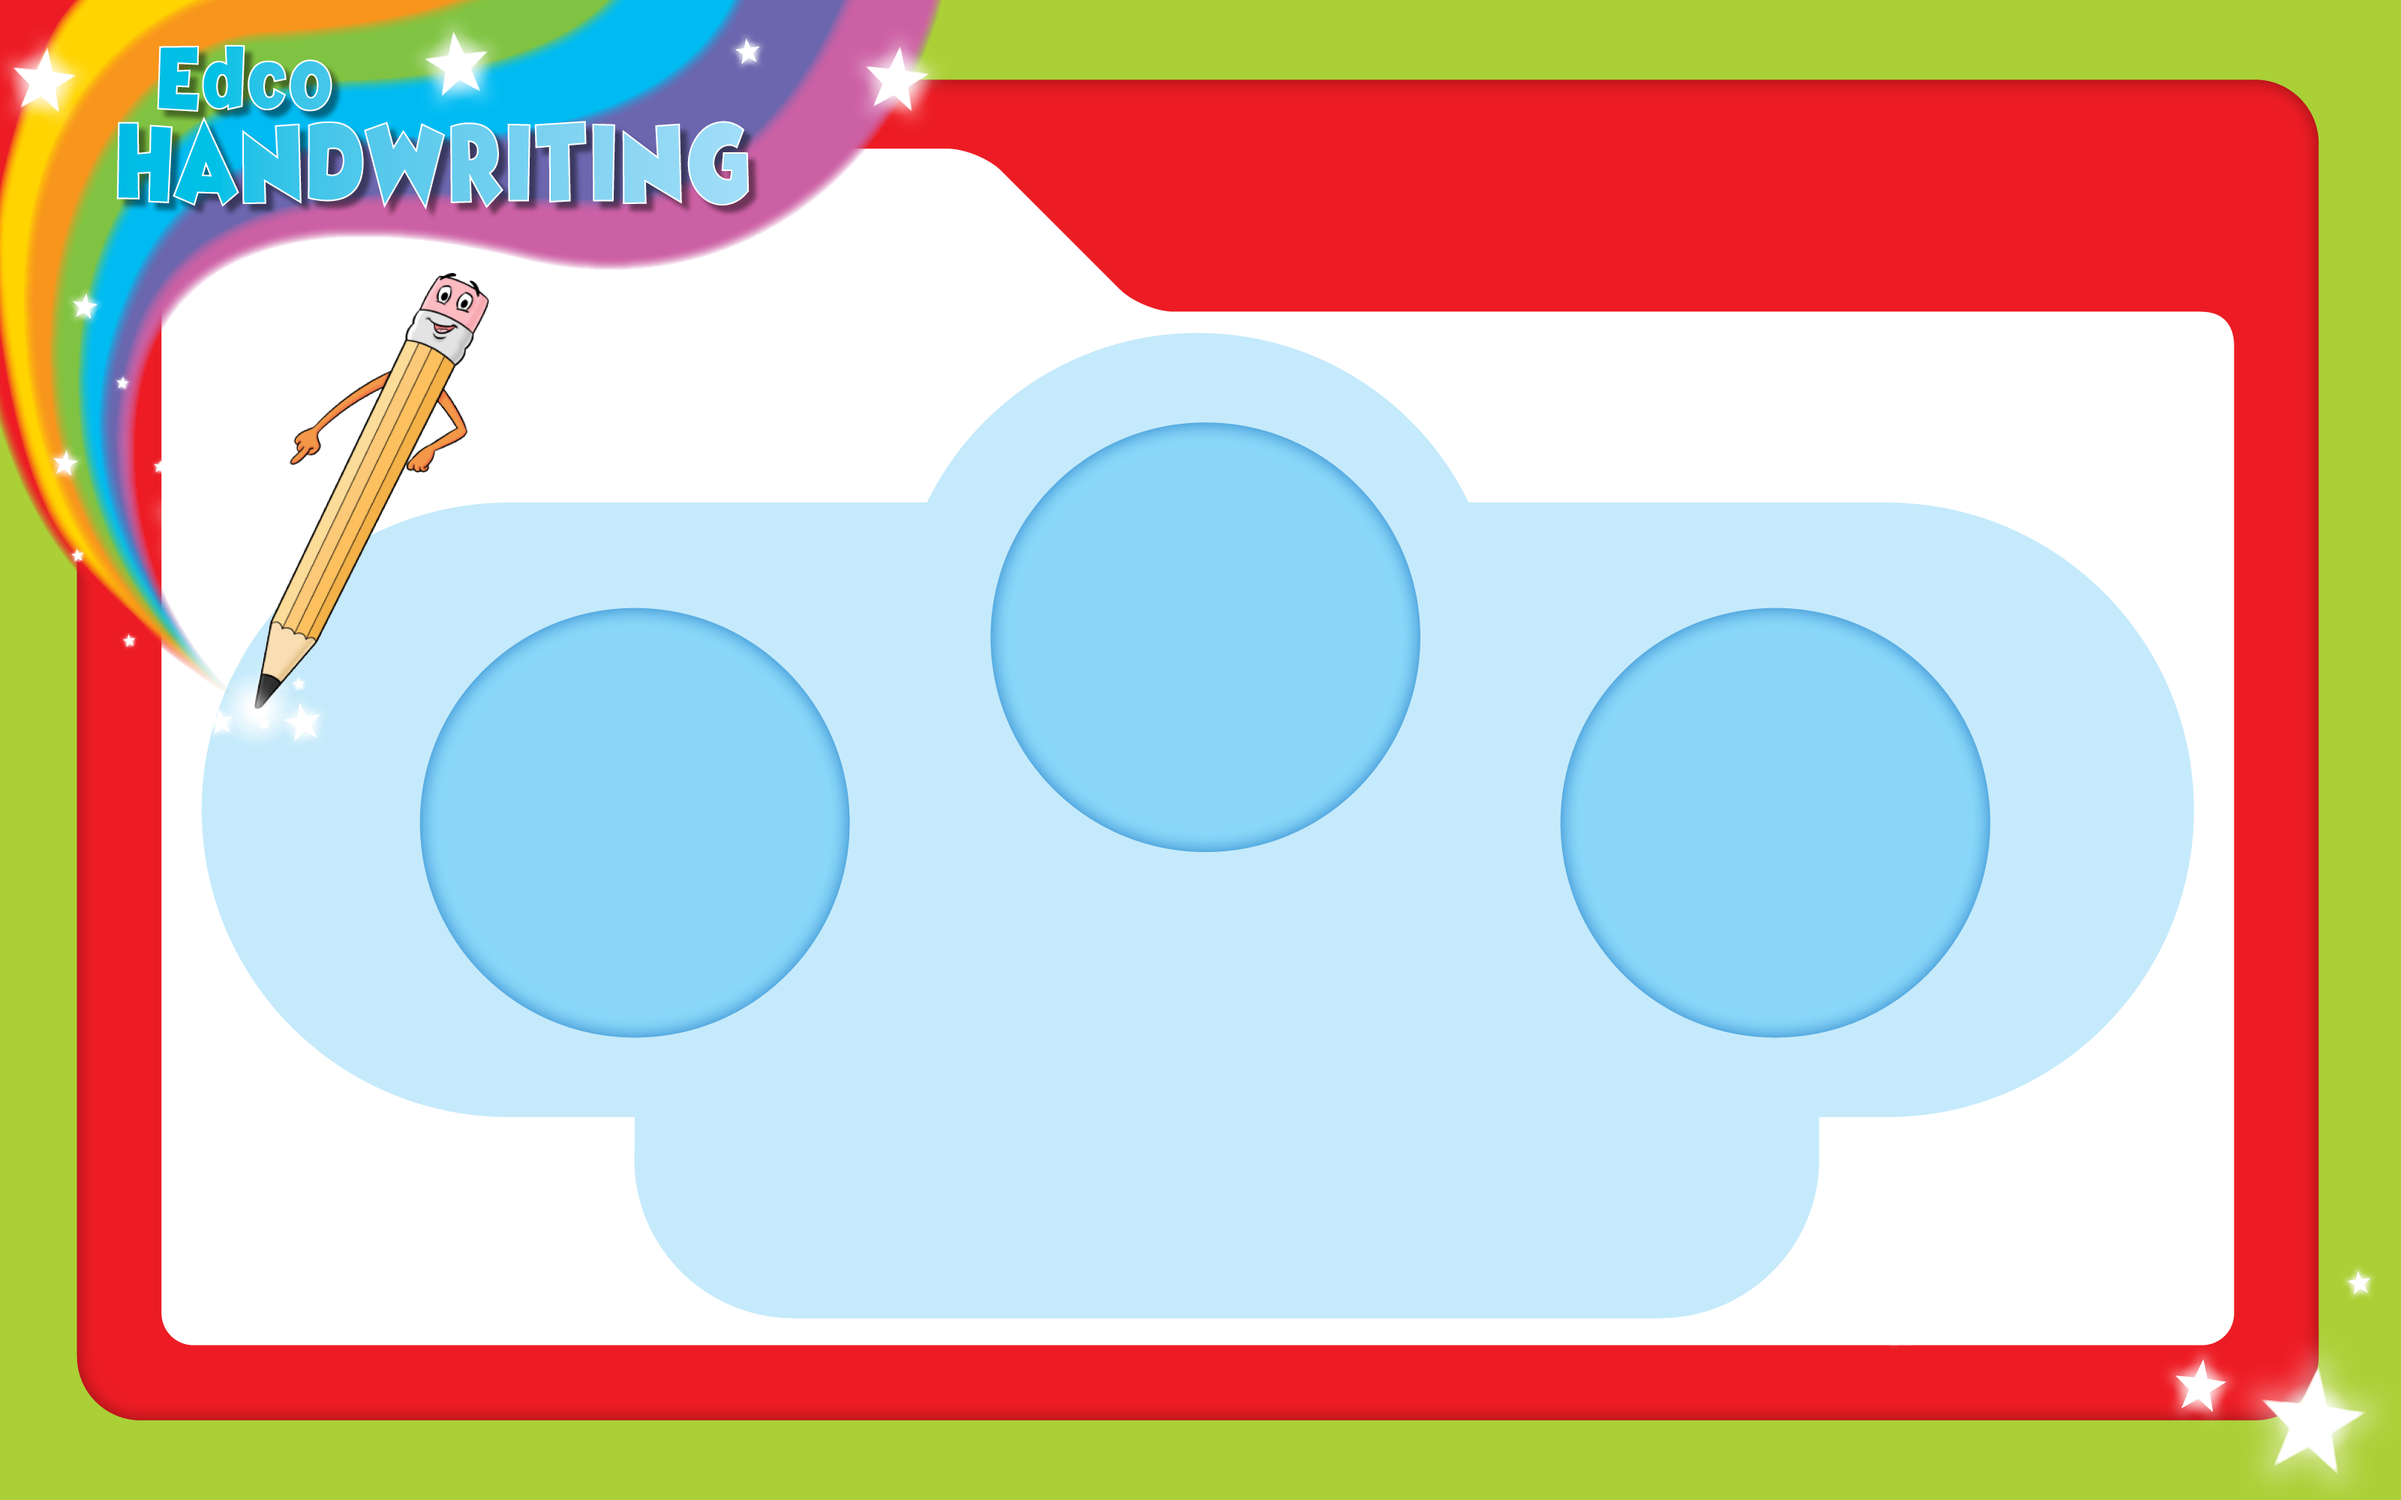
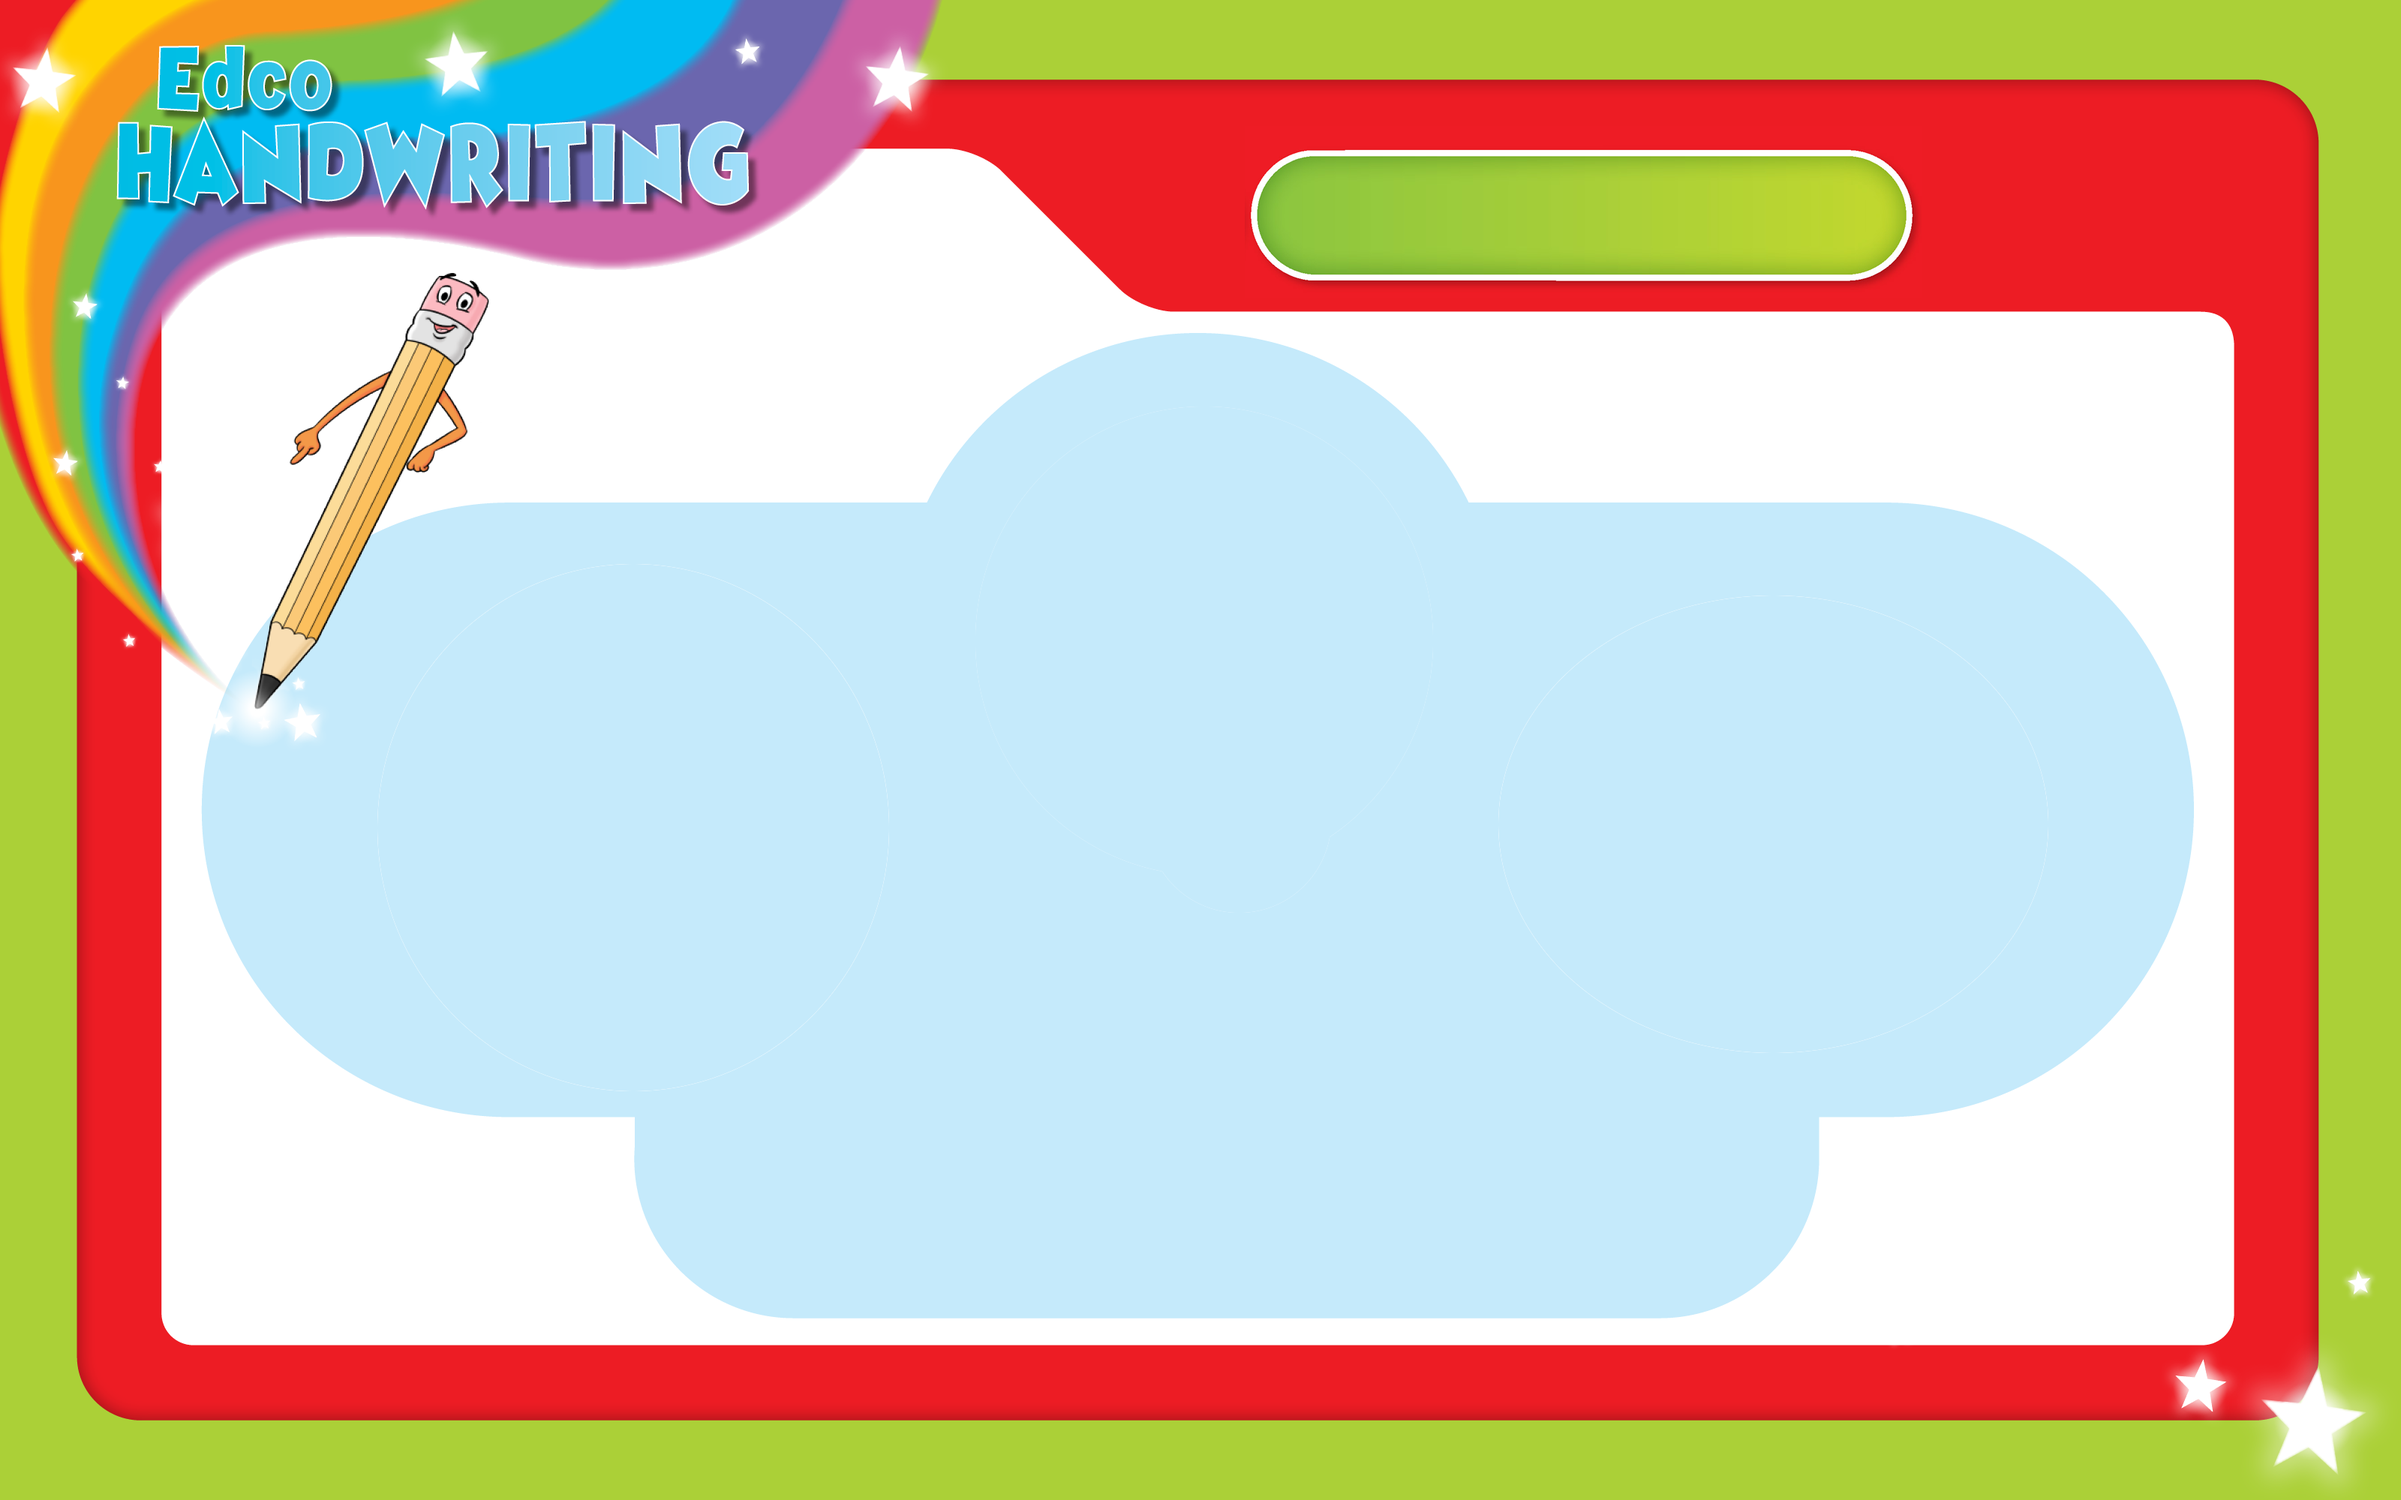
bg update 3

diff --git a/sample/src/components/PreWritingPractice.jsx b/sample/src/components/PreWritingPractice.jsx
@@ -12,6 +12,8 @@ import pat5 from "../images/pat-5-bg.png";
 import { MyConsumer } from "./context";
 
 function PreWritingPractice(props) {
+  var actImg = null;
+
   const [pattern, speed] = props.location.path ? props.location.path.split("$") : ["pat-1", ""];
   const bgimgs = [pat1, pat2, pat3, pat4, pat5];
   var bgimg = bgimgs[parseInt(pattern.split("-")[1]) - 1];
@@ -31,6 +33,7 @@ function PreWritingPractice(props) {
 
   useEffect(() => {
     props.setVisibility(props.history);
+    document.getElementsByClassName("activity-base")[0].style.backgroundImage = "url("+actImg+")";
   }, []);
 
   function fetchVideo(e) {
@@ -44,14 +47,25 @@ function PreWritingPractice(props) {
     console.log(cPath, " ========================");
   }
 
-  function abc() {
+  /* function abc() {
     return (
       <MyConsumer>{(a) => <p className="activity-name">Pre-Cursive {a.activeTab}</p>}</MyConsumer>
     );
+  } */
+
+  function abc() {
+    return <MyConsumer>
+      {
+        (a) =>{
+          actImg = a.getImg[a.activeTab].a3;
+          return <p className="activity-name">Pre-Cursive {a.activeTab}</p>
+        }
+      }
+      </MyConsumer>    
   }
 
   return (
-    <div className="activity-base" id="act-base-prePrac">
+    <div className="activity-base" >
       <div className="dailoug-block-img">
         <img alt="" src="assets/images/dialog-1.png" />
       </div>
@@ -60,7 +74,7 @@ function PreWritingPractice(props) {
           <a className="btn-icon oragnge-btn info-btn">
             <img alt="" src={infoBtn} />
           </a>
-          <div className="activity-name-block">
+          <div className="activity-Title">
             {abc()}
             {/* <p className="activity-name">Pre-Cursive</p> */}
           </div>

diff --git a/sample/src/components/theme.css b/sample/src/components/theme.css
@@ -46,6 +46,7 @@ body {
   position: relative;
   padding: 0;
   margin: 0;
+  user-select: none;
 }
 
 .book-name {
@@ -113,10 +114,13 @@ body {
   display: flex;
   align-items: center;
   justify-content: flex-end;
-  margin: 53px 285px 0px 0;
+  margin: 63px 270px 0px 0;
 }
 .activity-head > * {
   margin: 0 4px;
+}
+.activity-Title{
+  width: 320px;
 }
 .activity-name-block {
   background: #accf46;
@@ -234,6 +238,7 @@ body {
 /**** Button and Icon *****/
 .info-btn {
   cursor: pointer;
+  margin-right: 19px;
 }
 .btn-icon,
 .btn-icon:hover,
@@ -316,9 +321,9 @@ body {
   text-align: center;
 }
 .activity-bubble {
-  /* background: #87d6f7;
+  background: #87d6f7;
   border: 2px solid #68bbe8;
-  padding: 8px; */
+  padding: 8px;
 }
 
 .activity-bubble.left .activity-icon-wrap {

diff --git a/sample/src/components/context.js b/sample/src/components/context.js
@@ -1,6 +1,7 @@
 import React, {Component} from "react";
 import bgImgA from "../images/BG-images/pre-cur-a-bg-2.png"
-import bgImgA2 from "../images/BG-images/pre-cur-a-bg-5.jpg"
+import bgImgA2 from "../images/BG-images/pre-cur-a-bg-5.png"
+import bgImgA3 from "../images/BG-images/pre-cur-a-bg-6.png"
 
 import bgImgB from "../images/BG-images/pre-cur-b-bg-2.png"
 import bgImgB2 from "../images/BG-images/pre-cur-b-bg-5.png"
@@ -25,7 +26,7 @@ class MyProvider extends Component {
       func: this.updateContextTab,
 
       getImg: {
-        A:{a1: bgImgA, a2:bgImgA2},
+        A:{a1: bgImgA, a2:bgImgA2, a3:bgImgA3},
         B:{a1: bgImgB, a2:bgImgB2},
         C:{a1: bgImgC, a2:bgImgC2},
         D:{a1: bgImgD, a2:bgImgD2},

diff --git a/sample/src/components/FirstScr.jsx b/sample/src/components/FirstScr.jsx
@@ -16,6 +16,13 @@ class FirstScr extends Component {
     return (
       this.props.state.subList &&
       this.props.state.subList.map((cur) => (
+        <NavLink
+          to={{
+            pathname: "/precursive",
+            name: cur.name,
+            updateActiveTab: this.props.updateActiveTab,
+          }}
+        >
         <div className="btn-wrappper">
           <a className="chaper-name">Cursive {cur.name}</a>
           <a className="animated main-menu-btn btn-icon blue-btn" onClick={(e) => this.setToState(e)}>
@@ -23,6 +30,7 @@ class FirstScr extends Component {
           </a>
           <div className="small-btn-wrap"></div>
         </div>
+        </NavLink>
       ))
     );
 

diff --git a/sample/src/components/precursive.jsx b/sample/src/components/precursive.jsx
@@ -71,9 +71,8 @@ class Precursive extends Component{
 		  <a className="btn-icon oragnge-btn info-btn" onClick={this.openDialog}>
 		    <img alt="" src={infoBtn}/>
 		  </a>
-		  <div className="activity-name-block">
+		  <div className="activity-Title">
 			  {this.abc()}
-		    {/* <p className="activity-name">Pre-Cursive {this.state.name}</p> */}
 		  </div>
 		  {/* <a href="#" className="btn-icon oragnge-btn play-btn">
 		    <img alt="" src="assets/images/play-btn.png"/>

diff --git a/sample/src/components/PreWriting.jsx b/sample/src/components/PreWriting.jsx
@@ -41,7 +41,7 @@ class PreWriting extends Component {
             <a className="btn-icon oragnge-btn info-btn">
               <img alt="" src={infoBtn} />
             </a>
-            <div className="activity-name-block">{this.abc()}</div>
+            <div className="activity-Title">{this.abc()}</div>
           </div>
           <div className="activity-folder">
             <div className="activity-folder-bg activity-3-wrap">

diff --git a/sample/src/components/activity.css b/sample/src/components/activity.css
@@ -14,12 +14,10 @@
 }
 
 #act-base-letterForm {
-  background: url(../images/BG-images/pre-cur-a-bg-5.jpg);
   background-size: 100% 100%;
 }
 
 #act-base-printable{
-  background: url(../images/BG-images/pre-cur-a-bg-5.jpg);
   background-size: 100% 100%;
 }
 
@@ -41,7 +39,7 @@
   z-index: 1;
 }
 .activity-folder {
-  padding-top: 50px;
+  padding-top: 40px;
 }
 .flex {
   display: flex;

diff --git a/sample/src/components/LetterFormPractice.jsx b/sample/src/components/LetterFormPractice.jsx
@@ -41,7 +41,7 @@ function LetterFormPractice(props) {
           <a className="btn-icon oragnge-btn info-btn">
             <img alt="" src={infoBtn} />
           </a>
-          <div className="activity-name-block">{abc()}</div>
+          <div className="activity-Title">{abc()}</div>
         </div>
 
         <div className="letterFormbodyTxt">Letter Formation</div>

diff --git a/sample/src/components/LetterFormation.jsx b/sample/src/components/LetterFormation.jsx
@@ -62,7 +62,7 @@ function LetterFormation(props){
 		  <a className="btn-icon oragnge-btn info-btn">
 		    <img alt="" src={infoBtn}/>
 		  </a>
-		  <div className="activity-name-block">
+		  <div className="activity-Title">
 			  {abc()}
 		    {/* <p className="activity-name">Pre-Cursive</p> */}
 		  </div>

diff --git a/sample/src/App.css b/sample/src/App.css
@@ -10,8 +10,8 @@
 #backBtn{
   position: absolute;
   z-index: 1;
-  right: 135px;
-  top: 69px;
+  right: 102px;
+  top: 79px;
 }
 
 #backBtn div{
